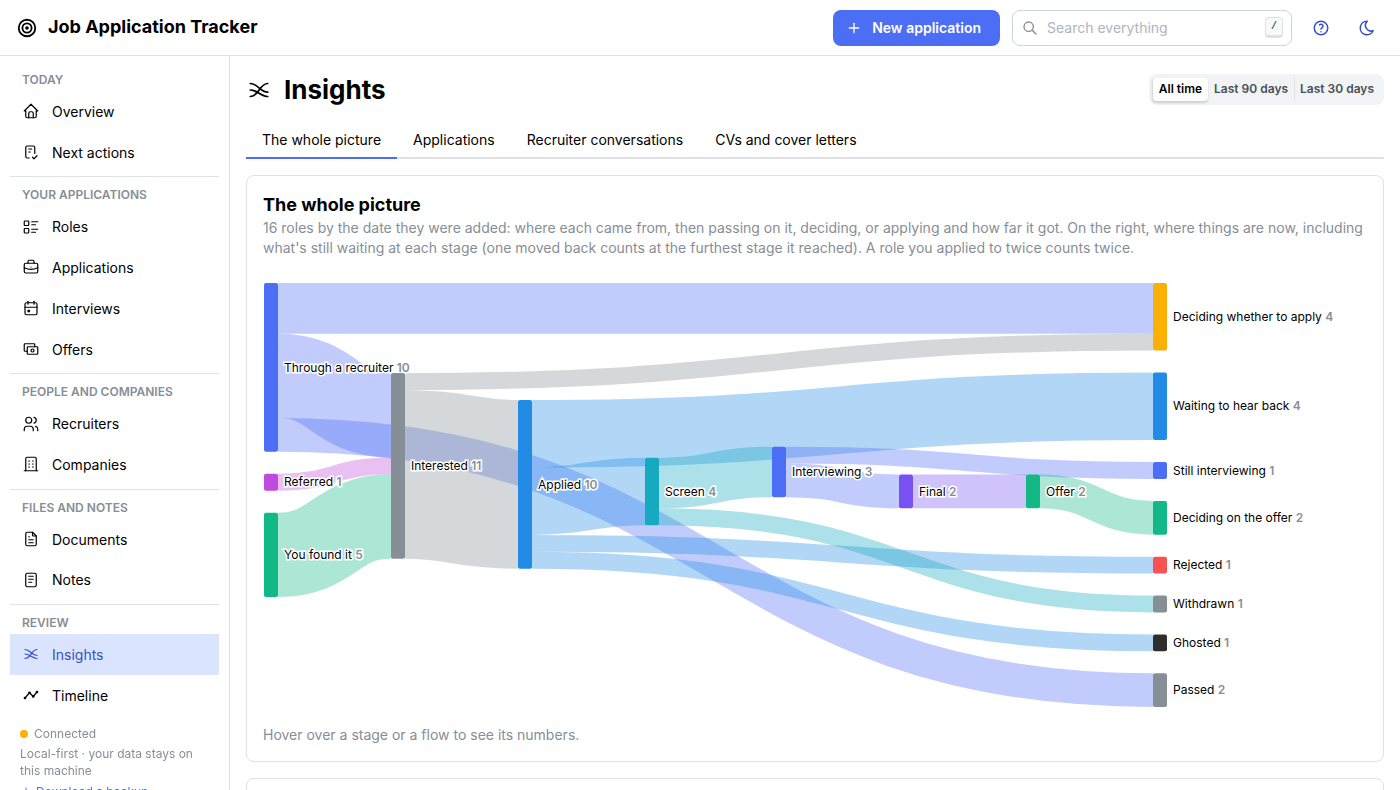
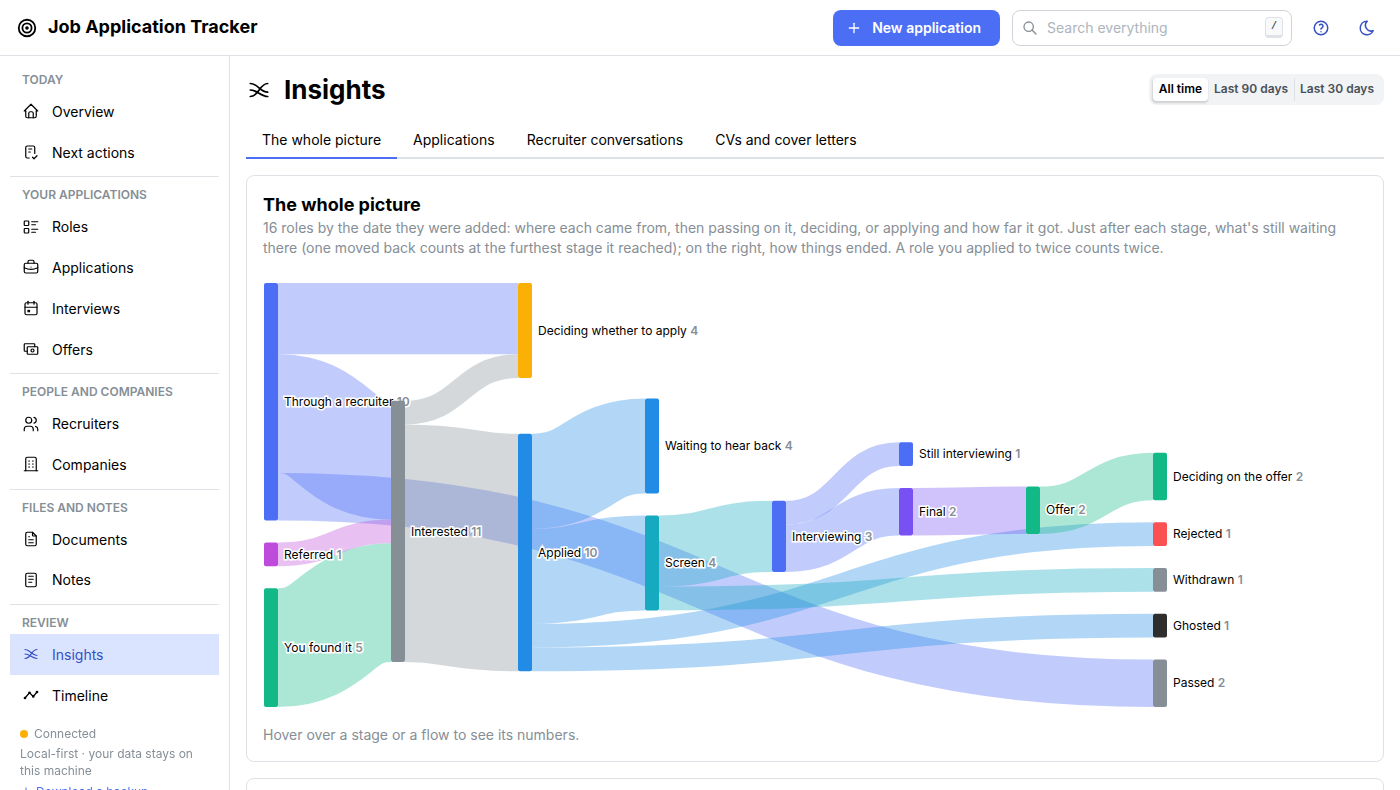
feat(insights): where things wait sits just after its stage
Kai: "the right hand edge: deciding whether to apply, waiting to hear
back etc, dont all have to align at the very right hand edge ... deciding
to apply would probably be directly above applied as thats where that
stage is". Holding nodes take their natural column (one after their
stage) and sit above the next stage in it; outcomes stay on the right.

Changed region(s): [[0.1843, 0.2734, 0.9829, 0.9114], [0.8293, 0.8506, 0.8907, 0.881]]

diff --git a/frontend/src/components/SankeyChart.tsx b/frontend/src/components/SankeyChart.tsx
@@ -47,16 +47,19 @@ export function SankeyChart({
 
   const layout = useMemo(() => {
     const order = new Map(flow.nodes.map((n, i) => [n.id, i]));
+    const rank = (n: FlowNode) => (n.kind === "holding" ? -1000 : 0) + (order.get(n.id) ?? 0);
     return (
       sankey<FlowNode, FlowLink>()
         .nodeId((n) => n.id)
         .nodeWidth(14)
         .nodePadding(22)
-        // Active stages by how far along they are; outcomes line up on the right.
+        // Active stages by how far along they are, and where things wait just after their stage
+        // (Deciding whether to apply in the same column as Applied); outcomes line up on the right.
         .nodeAlign((n, columns) =>
-          n.kind === "active" || n.sourceLinks?.length ? (n.depth ?? 0) : columns - 1,
+          n.kind === "active" || n.kind === "holding" || n.sourceLinks?.length ? (n.depth ?? 0) : columns - 1,
         )
-        .nodeSort((a, b) => (order.get(a.id) ?? 0) - (order.get(b.id) ?? 0))
+        // Within a column, what's waiting sits above the stage that comes next.
+        .nodeSort((a, b) => rank(a) - rank(b))
         .extent([
           [1, 8],
           [width - LABEL_SPACE, HEIGHT - 8],

diff --git a/frontend/src/components/WholePicture.tsx b/frontend/src/components/WholePicture.tsx
@@ -17,8 +17,8 @@ export function WholePicture({ since }: { since?: string }) {
       <Title order={4}>The whole picture</Title>
       <Text size="sm" c="dimmed" mb="md">
         {flow ? roles(flow.applications) : "…"} by the date they were added: where each came from, then
-        passing on it, deciding, or applying and how far it got. On the right, where things are now, including
-        what's still waiting at each stage (one moved back counts at the furthest stage it reached). A role
+        passing on it, deciding, or applying and how far it got. Just after each stage, what's still waiting
+        there (one moved back counts at the furthest stage it reached); on the right, how things ended. A role
         you applied to twice counts twice.
       </Text>
       {isLoading ? (

diff --git a/docs/guide/using-the-app.md b/docs/guide/using-the-app.md
@@ -497,8 +497,9 @@ role, from where it came from to where it is now.
   it** (anything else).
 - Then roles you passed on go to **Passed**, roles with no application yet to **Deciding whether
   to apply**, and applications through their stages from *Interested*.
-- On the right, where things are now: outcomes (Rejected, Ghosted, Accepted…) and, from each
-  stage, a spur to what's still waiting there.
+- From each stage, a spur to what's still waiting there, just after the stage (*Deciding
+  whether to apply* sits above *Applied*); on the right, how things ended (Rejected, Ghosted,
+  Accepted…) and what you passed on.
 
 It counts roles and applications added in the date range; a role you applied to twice counts
 twice. As in *Where applications go*, an application moved back counts at the furthest stage it
@@ -510,7 +511,8 @@ reached.
   starting at *Interested*; filter by route, hover for counts. Each stage has a spur to where
   the applications still there are waiting: *Deciding whether to apply* (Interested, if your first stage comes before Applied), *Waiting
   to hear back* (Applied), *Still screening*, *Still interviewing*, *In final rounds*, *Deciding
-  on the offer*, or *Still at …* for stages of your own. They're listed above the outcomes.
+  on the offer*, or *Still at …* for stages of your own. Each sits just after its stage, above
+  the stage that comes next.
 - **Stage by stage**: how many reached each stage, how many moved on, and the median time
   spent there.
 - **Direct vs recruiter**: the share of each route's applications that got to each stage.

diff --git a/CHANGELOG.md b/CHANGELOG.md
@@ -126,7 +126,8 @@ brackets are pull requests.
 - **The whole picture** in Insights: one Sankey diagram of every role, from where it came from
   (through a recruiter, referred, or you found it) to passed, deciding whether to apply, or its
   stages; both Sankeys end each stage with a spur to what's still waiting there (*Waiting to hear
-  back*, *Still interviewing*, *Deciding on the offer*…) (#84).
+  back*, *Still interviewing*, *Deciding on the offer*…) (#84), each just after its stage rather
+  than on the right edge (#85).
 - **Every application starts at Interested**: one added at *Applied* (or later) gets an
   *Interested* step a second before, so Insights shows every application flowing from
   *Interested*; existing applications are filled in by migration 0013 (#83).

diff --git a/README.md b/README.md
@@ -101,7 +101,7 @@ history.
 
 **Insights: the whole picture.** One Sankey diagram of every role, from where it came from
 (through a recruiter, a referral, or you found it) to passing on it, deciding, or applying and
-how far it got, ending with what's still waiting at each stage: deciding whether to apply,
+how far it got, with what's still waiting just after each stage: deciding whether to apply,
 waiting to hear back, still interviewing, deciding on an offer. A second tab follows just
 applications, filtered by route. Date range and counts on hover for both.
 
